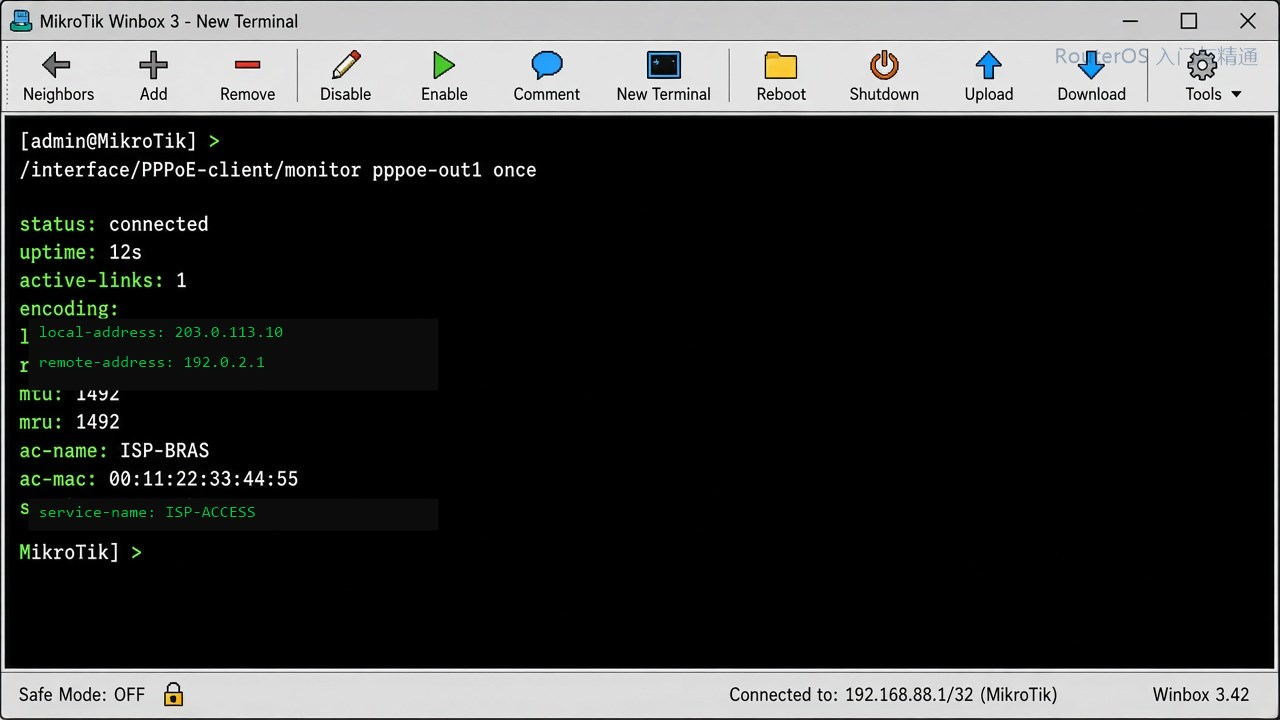
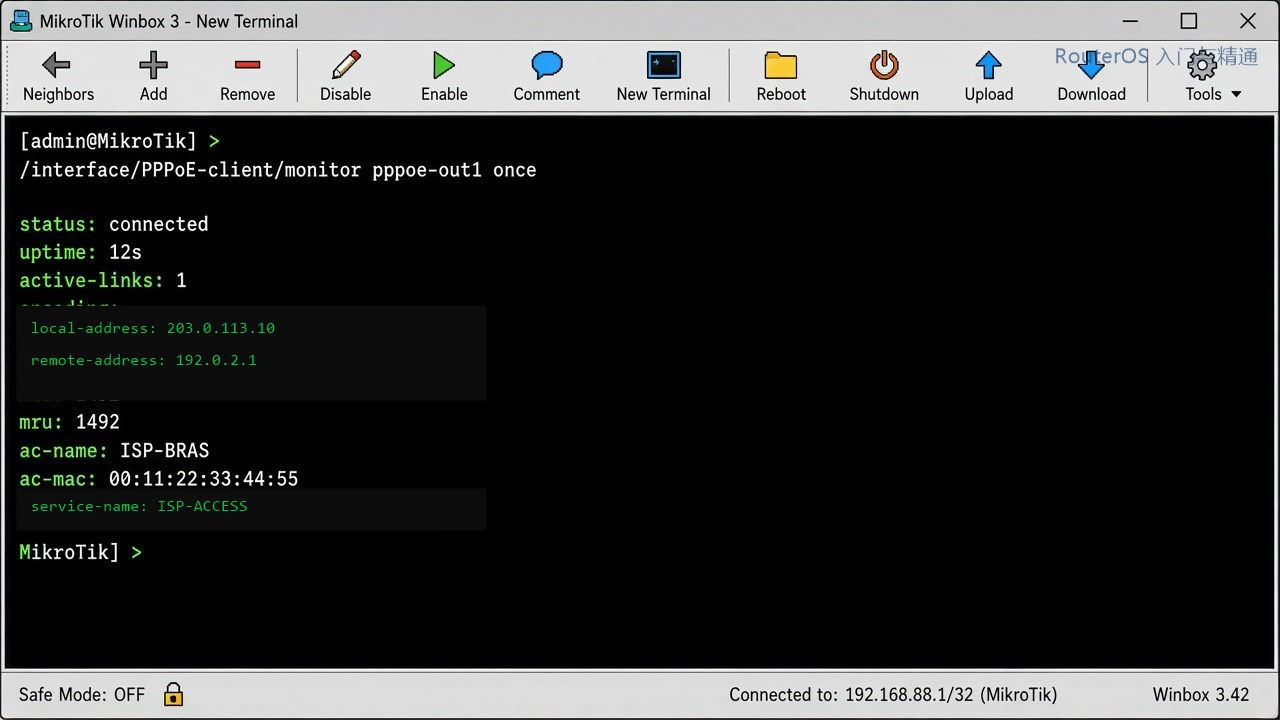
auto-sync: 2026-10-03 21:19

diff --git a/docs/.workspace-rules.md b/docs/.workspace-rules.md
@@ -721,3 +721,26 @@ scripts/                # 工作区脚本（如 git-sync.ps1），不发布到 G
 ```text
 RouterOS入门与精通
 ```
+
+---
+
+## 8. 隐私与脱敏（强制，含课程仓）
+
+工作区及 `RouterOS入门与精通/` 内的教程、文档、配置、脚本、图片、截图、拓扑图，**严禁**出现个人真实信息。
+
+禁止出现（含变体、大小写）：
+
+| 类型 | 处理 |
+| --- | --- |
+| 账户、密码、密钥、Token | 用 `admin` / `ISP_USER` / `ISP_PASS` / `********`；真实值一律不入库 |
+| MAC 地址 | 用文档示例 `00:11:22:33:44:55`；真实 OUI 也要替换 |
+| 公网 IPv4/IPv6、运营商拨号地址 | 用 TEST-NET：`192.0.2.0/24`、`198.51.100.0/24`、`203.0.113.0/24` |
+| CGNAT `100.64.0.0/10` 若来自真实会话 | 涂抹或改成示例 |
+| 个人昵称、真实姓名、本机账户 | 包括但不限于 `lei`、`sheng` 及可指向作者的网名 |
+| 可识别的运营商账号后缀、设备序列号 | 改为 `@isp.example` 等 |
+
+允许：RFC1918 教学网段（优先 `192.168.88.0/24`）、官方默认 identity `MikroTik`、用户名 `admin`。
+
+**截图 / 配图水印**：每张只打 **一处**，文字固定为 `RouterOS 入门与精通`。位置选 **内容区右上角**（避开窗口关闭按钮；不用左下角，以免挡住 CLI 提示符或 WinBox 状态栏）。半透明、不遮挡被讲的控件与命令。工具：`RouterOS入门与精通/automation/protect-media.ps1`。
+
+落盘前自检：正文、`.rsc`、图片 OCR 级可见文字均无上表内容。

diff --git a/RouterOS入门与精通/cookbook/home/pppoe-dial.md b/RouterOS入门与精通/cookbook/home/pppoe-dial.md
@@ -7,7 +7,8 @@
 > [DNS](https://help.mikrotik.com/docs/spaces/ROS/pages/37748767/DNS) ·
 > [NAT](https://help.mikrotik.com/docs/spaces/ROS/pages/3211299/NAT)
 >
-> 对照环境：Winbox 3 · 命令行 New Terminal / SSH
+> 对照环境：Winbox 3 · 命令行 New Terminal / SSH  
+> 截图中的公网地址、MAC 已换成文档示例（TEST-NET / `00:11:22:33:44:55`），并打学习用水印。
 
 运营商给的是 **用户名 + 密码**（光纤/部分 DSL），而不是 DHCP 自动拿地址时，用本课。
 
@@ -85,7 +86,7 @@
 
 **怎么确认成功：** `print` 有一行 `name="pppoe-out1"`，且不是 `X`（disabled）。
 
-**常见失败：** 用户名密码抄错（含后缀 `@163.gd` 一类要整串填）；`Interface` 选成了 `bridge`；忘了点 `OK`。
+**常见失败：** 用户名密码抄错（含后缀 `@isp.example` 一类要整串填）；`Interface` 选成了 `bridge`；忘了点 `OK`。
 
 ---
 

diff --git a/RouterOS入门与精通/CONTRIBUTING.md b/RouterOS入门与精通/CONTRIBUTING.md
@@ -11,7 +11,9 @@
 
 - 不要按 `/ip`、`/routing` 菜单堆文档顶层目录。
 - 不要把 v6 OSPF/BGP/filter 语法直接当作 v7 正文。
-- 不要提交密钥、备份口令、真实公网地址与客户配置。
+- 不要提交密钥、备份口令、真实公网地址、真实 MAC、个人昵称或客户配置。
+- 账户/密码只用 `ISP_USER` / `ISP_PASS` / `********`；公网地址用 `192.0.2.0/24`、`203.0.113.0/24`；MAC 用 `00:11:22:33:44:55`。
+- 截图、配图入库前：脱敏后打 **一处** 半透明水印 `RouterOS 入门与精通`，位置在 **内容区右上角**（避开关闭按钮）。可用 `automation/protect-media.ps1`。
 
 ## 提交
 

diff --git a/RouterOS入门与精通/README.md b/RouterOS入门与精通/README.md
@@ -6,6 +6,8 @@
 
 主线：**RouterOS v7**。不要把本仓库当成命令大全，路径是：网络原理 → RouterOS 实现 → 实验 → 故障 → 生产设计。
 
+文稿与截图禁止真实账户、密码、MAC、公网 IP 和个人昵称；截图右上角有学习用水印。见 [CONTRIBUTING.md](CONTRIBUTING.md)。
+
 ```text
                 RouterOS 入门与精通
                          │

diff --git a/RouterOS入门与精通/docs/_template.md b/RouterOS入门与精通/docs/_template.md
@@ -6,7 +6,7 @@
 > 对应 Lab：……  
 > 学习目标：……
 
-所有 `docs/` 课文按下列 14 节写，避免只贴 `/ip firewall filter add ...`。
+所有 `docs/` 课文按下列 14 节写，避免只贴 `/ip firewall filter add ...`。截图须脱敏并加水印，见仓库 `CONTRIBUTING.md`。
 
 ## 1. 是什么？
 

diff --git a/RouterOS入门与精通/images/README.md b/RouterOS入门与精通/images/README.md
@@ -1,3 +1,10 @@
 # images
 
 WinBox / CLI / Lab 截图。拓扑源文件放 `diagrams/`。
+
+入库前必须：
+
+1. 抹去真实账户、密码、MAC、公网 IP、个人昵称。
+2. 打一处水印 `RouterOS 入门与精通`（内容区右上角、半透明）。
+
+处理脚本：`../automation/protect-media.ps1`。

diff --git a/RouterOS入门与精通/automation/README.md b/RouterOS入门与精通/automation/README.md
@@ -1,0 +1,5 @@
+# automation
+
+外部自动化示例（Python / Ansible / Terraform / REST）。
+
+截图脱敏与水印：`protect-media.ps1`（每张一处，内容区右上角，文案 `RouterOS 入门与精通`）。
